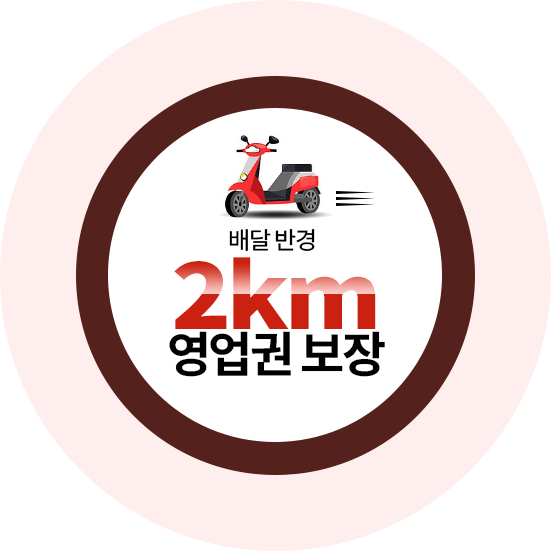
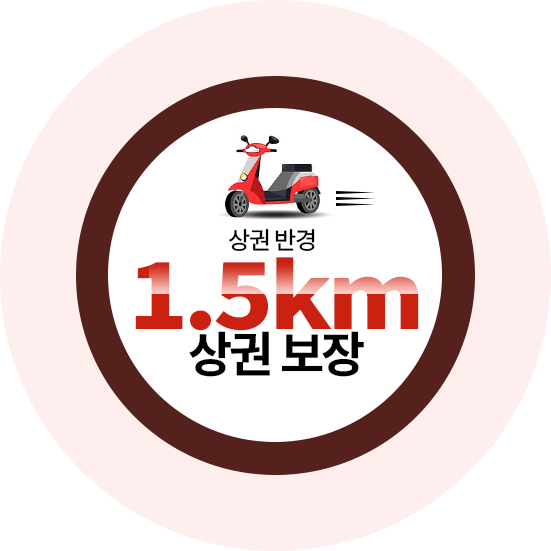
Feat [2026-09-27] 박주현
- 홈페이지 배민/인스타 바로가기 추가
- 영업권보호 → 상권보호 문구 및 이미지 수정
- 관리자 초기 비밀번호 profile 설정(admin.initial-password)으로 분리

refs #17

Changed region(s): [[0.2468, 0.4011, 0.7713, 0.7096]]

diff --git a/src/main/resources/templates/customer/index.html b/src/main/resources/templates/customer/index.html
@@ -20,6 +20,12 @@
 
 <body>
 
+<!-- 바로가기 -->
+<div class="fixed-link">
+    <img src="/customer/images/baemin.png" alt="" class="baemin-link">
+    <img src="/customer/images/insta.png" alt="" class="insta-link">
+</div>
+
 <!-- Popup -->
 <div class="modal micromodal-slide" id="popup-modal" aria-hidden="true">
 
@@ -228,7 +234,7 @@
                 <li><a href="#strength">창업 경쟁력</a></li>
                 <li><a href="#menu">메뉴</a></li>
                 <li><a href="#review">고객리뷰</a></li>
-                <li><a href="#protection">영업권보호</a></li>
+                <li><a href="#protection">상권보호</a></li>
                 <li><a href="#cost">창업비용 및 가맹문의</a></li>
             </ul>
         </nav>
@@ -838,7 +844,7 @@
                 <p data-aos="fade-up" data-aos-delay="250">
                     배달매장에서 매우 중요한 영업지역!
                     고기장인은 가맹점의 안정적인 매출을 위해<br>
-                    <strong>배달 반경 1.5km 영업권 보장 정책</strong>을 시행합니다.
+                    <strong>상권 반경 1.5km 상권 보장 정책</strong>을 시행합니다.
                 </p>
             </div>
 
@@ -857,8 +863,8 @@
 
                 <article class="protection-item" data-aos="fade-up" data-aos-duration="900">
                     <img src="/customer/images/protection/icon_01.png" alt="">
-                    <h3>배달 반경 2km 보장</h3>
-                    <p>각 가맹점 중심 반경 2km 내 동일 브랜드 신규 출점을 제한하여 안정적인 상권을 보호합니다.</p>
+                    <h3>상권 반경 1.5km 보장</h3>
+                    <p>각 가맹점 중심 반경 1.5km 내 동일 브랜드 신규 출점을 제한하여 안정적인 상권을 보호합니다.</p>
                 </article>
 
                 <article class="protection-item" data-aos="fade-up" data-aos-duration="1000">
@@ -876,14 +882,14 @@
                 <article class="protection-item" data-aos="fade-up" data-aos-duration="1200">
                     <img src="/customer/images/protection/icon_04.png" alt="">
                     <h3>안정적인 매출 확보</h3>
-                    <p>명확한 영업권 보호 정책으로 장기적인 수익 구조를 지원합니다.</p>
+                    <p>명확한 상권 보호 정책으로 장기적인 수익 구조를 지원합니다.</p>
                 </article>
 
             </div>
         </div>
         <div class="protection-bottom-wrap">
             <div class="container protection-bottom">
-                고기장인은 가맹점의 성공이 곧 브랜드의 성공이라는 믿음으로 철저한 영업권 보호 정책을 운영합니다.
+                고기장인은 가맹점의 성공이 곧 브랜드의 성공이라는 믿음으로 철저한 상권 보호 정책을 운영합니다.
             </div>            
         </div>
 

diff --git a/src/main/resources/static/customer/css/style.css b/src/main/resources/static/customer/css/style.css
@@ -2613,3 +2613,22 @@ main {overflow: hidden;}
         letter-spacing:-1px
     }
 }
+
+/* 배민로고 작업 0923 */
+.fixed-link {
+    display: flex;
+    position: fixed;
+    bottom: 5%;
+    right: 3%;
+    z-index: 30;
+    flex-direction: column;
+    gap: 15px;
+}
+.fixed-link .baemin-link {
+    cursor: pointer;
+    height: 90px;
+}
+.fixed-link .insta-link {
+    cursor: pointer;
+    height: 90px;
+}

diff --git a/src/main/java/com/project/gogiJangin/common/config/InitialAccountConfig.java b/src/main/java/com/project/gogiJangin/common/config/InitialAccountConfig.java
@@ -3,6 +3,7 @@ package com.project.gogiJangin.common.config;
 import com.project.gogiJangin.entity.Account;
 import com.project.gogiJangin.repository.AccountRepository;
 import lombok.RequiredArgsConstructor;
+import org.springframework.beans.factory.annotation.Value;
 import org.springframework.boot.CommandLineRunner;
 import org.springframework.context.annotation.Bean;
 import org.springframework.context.annotation.Configuration;
@@ -15,7 +16,8 @@ public class InitialAccountConfig {
     @Bean
     public CommandLineRunner initAccount(
             AccountRepository accountRepository,
-            PasswordEncoder passwordEncoder
+            PasswordEncoder passwordEncoder,
+            @Value("${admin.initial-password}") String initialPassword
     ) {
         return args -> {
 
@@ -23,7 +25,7 @@ public class InitialAccountConfig {
 
                 Account account = Account.builder()
                         .acLoginId("admin")
-                        .acPassword(passwordEncoder.encode("1234"))
+                        .acPassword(passwordEncoder.encode(initialPassword))
                         .acName("관리자")
                         .build();
 
@@ -34,9 +36,6 @@ public class InitialAccountConfig {
 }
 
 /* todo
-1. 홈페이지 하단 정보 변경
-2. 관리자 사이트 비밀번호 설정
-3. 네이버, 구글 검색 결과 확인
-4. 주문 링크 설정
-5. 가맹문의 수정시
+1. 네이버, 구글 검색 결과 확인
+2. 주문 링크 설정
  */
